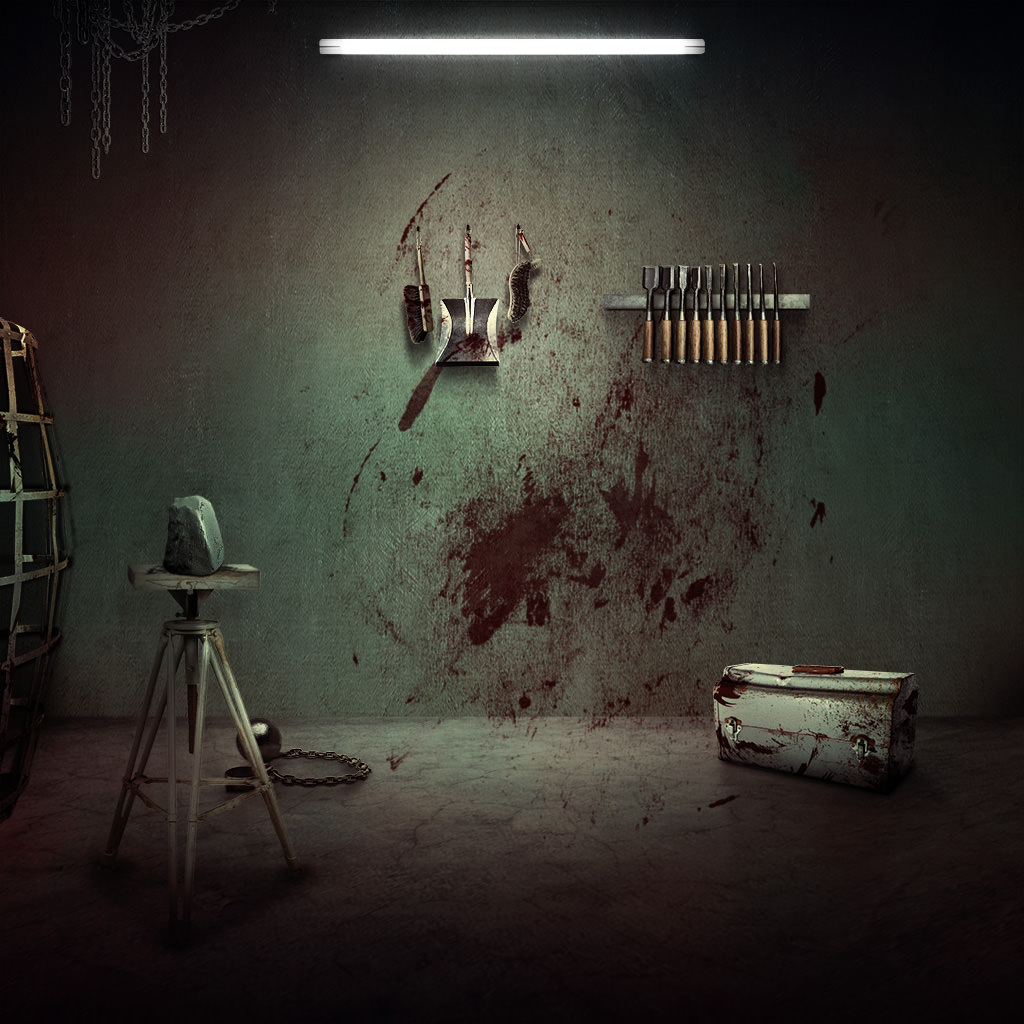
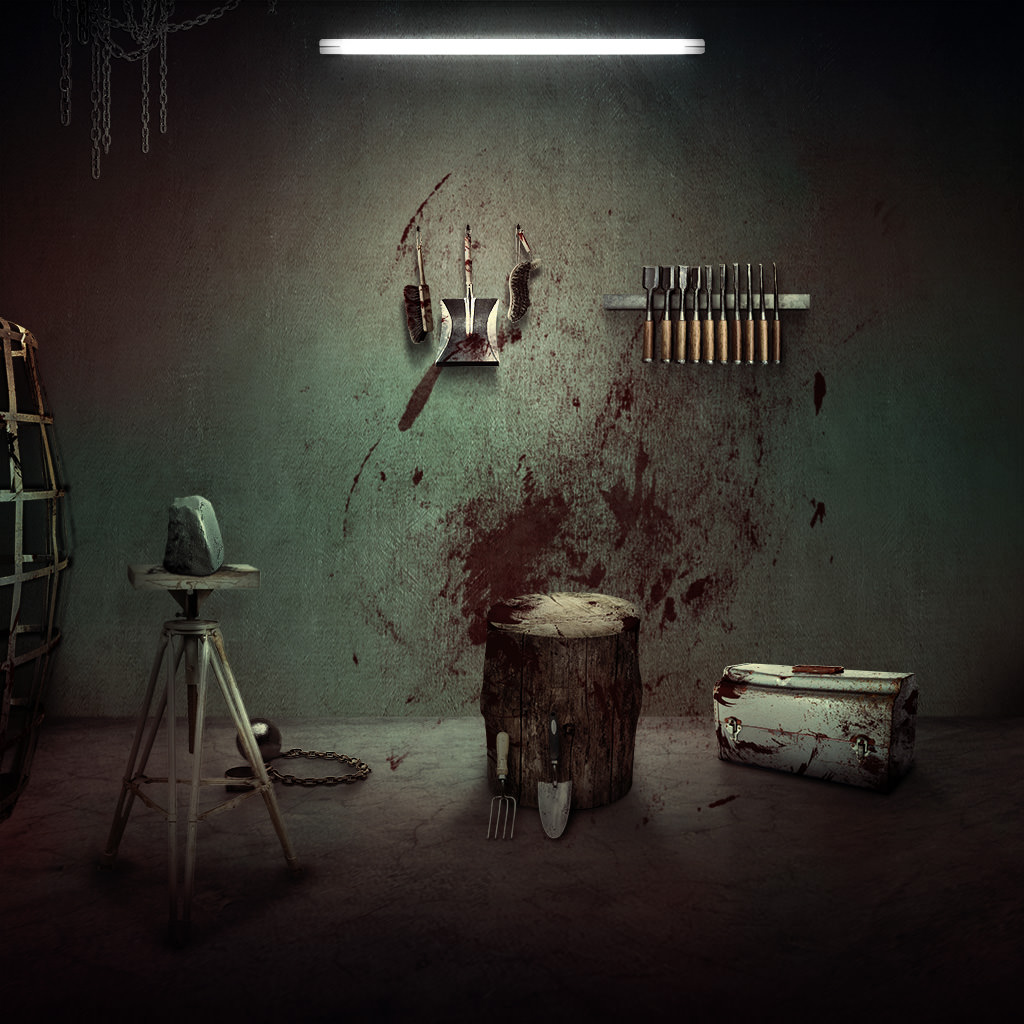
add new tool & environments update tool positions

Changed region(s): [[0.4375, 0.5625, 0.6562, 0.8438]]

diff --git a/game.js b/game.js
@@ -9,34 +9,34 @@ var dragControlMethod = viewer.controls().method('mouseViewDrag').instance;
 
 // sculpting kit
 tempHotspots[ 0 ] = scenes[ 0 ].marzipanoObject.hotspotContainer().createHotspot(document.querySelector("#clue-1"),
-    { yaw: -0.15, pitch: 0.07 }, { perspective: { radius: 600, extraRotations: "rotateX(5deg)" } } );
+    { yaw: -0.15, pitch: 0.05 }, { perspective: { radius: 520, extraRotations: "rotateX(5deg)" } } );
 // needles & thread sewing kit
 tempHotspots[ 0 ] = scenes[ 0 ].marzipanoObject.hotspotContainer().createHotspot(document.querySelector("#clue-2"),
-    { yaw: 1.68, pitch: 0.0 }, { perspective: { radius: 600, extraRotations: "rotateX(5deg)" } });
+    { yaw: 1.73, pitch: -0.11 }, { perspective: { radius: 515, extraRotations: "rotateX(0deg)" } });
 // axe
 tempHotspots[ 0 ] = scenes[ 0 ].marzipanoObject.hotspotContainer().createHotspot(document.querySelector("#clue-3"),
-    { yaw: -1.89, pitch: 0.33 }, { perspective: { radius: 600, extraRotations: "rotateX(5deg)" } });
+    { yaw: -1.65, pitch: 0.008 }, { perspective: { radius: 510, extraRotations: "rotateX(5deg)" } });
 // clay
 tempHotspots[ 0 ] = scenes[ 0 ].marzipanoObject.hotspotContainer().createHotspot(document.querySelector("#clue-4"),
-    { yaw: 0.27, pitch: 0.04 }, { perspective: { radius: 600, extraRotations: "rotateX(5deg)" } });
+    { yaw: 0.3, pitch: 0.025 }, { perspective: { radius: 530, extraRotations: "rotateX(5deg)" } });
 // FALSE: box
 tempHotspots[ 0 ] = scenes[ 0 ].marzipanoObject.hotspotContainer().createHotspot(document.querySelector("#clue-5"),
-    { yaw: -0.41, pitch: 0.08 }, { perspective: { radius: 600, extraRotations: "rotateX(5deg)" } }); // OK
+    { yaw: -0.41, pitch: 0.07 }, { perspective: { radius: 600, extraRotations: "rotateX(5deg)" } }); // OK
 // FALSE: hammer
 tempHotspots[ 0 ] = scenes[ 0 ].marzipanoObject.hotspotContainer().createHotspot(document.querySelector("#clue-6"),
     { yaw: -2.12, pitch: -0.16 }, { perspective: { radius: 600, extraRotations: "rotateX(5deg)" } }); // OK
 // FALSE: knife
 tempHotspots[ 0 ] = scenes[ 0 ].marzipanoObject.hotspotContainer().createHotspot(document.querySelector("#clue-7"),
-    { yaw: -1.21, pitch: 0.06 }, { perspective: { radius: 600, extraRotations: "rotateX(5deg)" } }); // OK
+    { yaw: -1.21, pitch: -0.029 }, { perspective: { radius: 590, extraRotations: "rotateX(5deg)" } }); // OK
 // FALSE: saw
 tempHotspots[ 0 ] = scenes[ 0 ].marzipanoObject.hotspotContainer().createHotspot(document.querySelector("#clue-8"),
-    { yaw: -1.6, pitch: 0.0 }, { perspective: { radius: 600, extraRotations: "rotateX(5deg)" } }); // OK
+    { yaw: -1.91, pitch: 0.117 }, { perspective: { radius: 560, extraRotations: "rotateX(5deg)" } }); // OK
 // FALSE: spade
 tempHotspots[ 0 ] = scenes[ 0 ].marzipanoObject.hotspotContainer().createHotspot(document.querySelector("#clue-9"),
-    { yaw: 0.03, pitch: -0.098 }, { perspective: { radius: 600, extraRotations: "rotateX(5deg)" } }); // OK
+    { yaw: 0.038, pitch: -0.1 }, { perspective: { radius: 530, extraRotations: "rotateX(5deg)" } }); // OK
 // FALSE: tape
 tempHotspots[ 0 ] = scenes[ 0 ].marzipanoObject.hotspotContainer().createHotspot(document.querySelector("#clue-10"),
-    { yaw: 1.93, pitch: 0.05 }, { perspective: { radius: 600, extraRotations: "rotateX(5deg)" } } ); // OK
+    { yaw: 1.985, pitch: -0.04 }, { perspective: { radius: 540, extraRotations: "rotateX(5deg)" } } ); // OK
 
 $('.panoCenter').click(function(e) {
     var activeSceneIdx = activeSceneList.indexOf( activeScene.data.id );

diff --git a/index.html b/index.html
@@ -135,18 +135,20 @@
             <div class="row center-block">
                 <div class="col-sm-12 text-center">
                     <div class="row">
-                        <div class="col-sm-6 visible-md visible-lg" >
-                            <div class="codeImage">
+                        <div class="col-sm-6 codeImage borderDebug visible-md visible-lg">
+                            <div >
+                                <!-- COde image here -->
                             </div>
-                            <br />
-                            <span>
-                                Collect all 5 codes to unlock the final haunting
-                            </span>
-                            <p class="centerInlineHor">
-                                <a href="#" class="iconDownload fg-yellow">
-                                    DOWNLOAD IMAGE
-                                </a>
-                            </p>
+                            <div class="pull-right">
+                                <p class="text-left">
+                                    Collect all 5 codes to unlock the final haunting
+                                </p>
+                                <p  class="text-left">
+                                    <a href="#" class="iconDownload fg-yellow">
+                                        DOWNLOAD IMAGE
+                                    </a>
+                                </p>
+                            </div>
                         </div>
 
                         <div class="col-sm-6 text-center">
@@ -204,7 +206,7 @@
                                 </a>
                             </div>
                         </div>
-                        <div class="col-sm-6 visible-xs visible-sm" >
+                        <div class="col-sm-6 visible-xs visible-sm">
                             <div class="codeImage center-block">
                             </div>
                             <br />
@@ -230,7 +232,7 @@
     <!-- correct items in pano -->
     <div id="clue-1" class="clue" style="height: 122px; width: 82px" ng-click="processClue( 1 )"></div>
     <div id="clue-2" class="clue" style="height: 135px; width: 231px" ng-click="processClue( 2 )"></div>
-    <div id="clue-3" class="clue" style="height: 498px; width: 227px" ng-click="processClue( 3 )"></div>
+    <div id="clue-3" class="clue" style="height: 250px; width: 290px" ng-click="processClue( 3 )"></div>
     <div id="clue-4" class="clue" style="height: 133px; width: 138px" ng-click="processClue( 4 )"></div>
     <!-- wrong items -->
     <div id="clue-5" class="clue" style="height: 115px; width: 165px" ng-click="processClue( 5 )"></div>
@@ -247,8 +249,8 @@
 
     <!-- health meter and dialogues-->
     <div class="bottomArea">
-        <div class="bloodBox">
-            {{parentData.currentMsg}}
+        <div class="bloodBox center-ver-inline">
+            <div class=" ">{{parentData.currentMsg}}</div>
         </div>
         <div>
             <img src="img/heart.png" class="heart_4" />

diff --git a/styles/main.css b/styles/main.css
@@ -1,9 +1,11 @@
 html, body {
     font-family: lato, sans-serif;
     color: #e5e5cf;
-    font-weight: 500 !important;
+    /*font-weight: 500 !important;*/
+    font-size: 14px;
     position: relative;
     overflow: visible;
+    -webkit-font-smoothing: antialiased;
 }
 
 a:hover {
@@ -33,10 +35,12 @@ a:hover {
 
 .bottomArea > div:first-child {
     margin-bottom: 20px;
-    width: 100%;
+    width: 370px;
+    height: 80px;
     font-style: italic;
     position: relative;
     z-index: 50;
+    vertical-align: middle;
 }
 
 .bottomArea > div:nth-child(2) > img {
@@ -60,6 +64,13 @@ a:hover {
     justify-content: center;
     align-items: center;
 }
+
+.center-ver-inline {
+  display: flex !important;
+  justify-content: center;
+  flex-direction: column;
+}
+
 @media (max-width: 1024px) {
     .center-ver-parent {
         display: flex;
@@ -244,14 +255,16 @@ a:hover {
 
 .iconDownload {
     display: inline-block;
-    margin: 20px;
     background-image: url( ../img/icon_download.png);
     height: 30px;
     vertical-align: bottom;
     background-repeat: no-repeat;
     background-size: contain;
     padding-left: 37px;
+    font-size: 12px;
+    font-weight: 400;
     line-height: 30px;
+    text-align: right;
 }
 
 #pageLanding {
@@ -386,13 +399,21 @@ a:hover {
 }*/
 
 .codeImage {
-    background-image: url( ../img/code_bg.png );
+    /*background-image: url( ../img/code_bg.png );*/
     background-position: center;
     background-repeat: no-repeat;
     background-size: contain;
     /*width: 250px;*/
-    height: 400px;
+    /*height: 400px;*/
+    padding-right: 20px;
 }
+
+.codeImage > div:nth-child(2) {
+    width: 170px;
+    font-size: 11px;
+    font-weight: 400;
+}
+
 
 .clue {
     cursor: pointer;

diff --git a/controller.js b/controller.js
@@ -97,7 +97,7 @@ angular.module('myApp', []).controller( 'bodyCtrl', [ '$scope', '$http', '$timeo
                     hidePage( '.bottomArea' );
                     showPage( '#pageBlackBg' );
                     showPage( '#pageFails' );
-                }, 900);
+                }, 100);
             }
         }
     }
@@ -283,9 +283,9 @@ angular.module('myApp', []).controller( 'bodyCtrl', [ '$scope', '$http', '$timeo
         console.log( window.tempSprite );
     }
 
-    // $scope.startGame();
     hidePage( '.bottomArea' );
+    //$scope.startGame();
     // showPage( '#pageBlackBg' );
-    // showPage( '#pageShare' );
+    //showPage( '#pageShare' );
     showPage( '#pageLanding' );
 }]);
